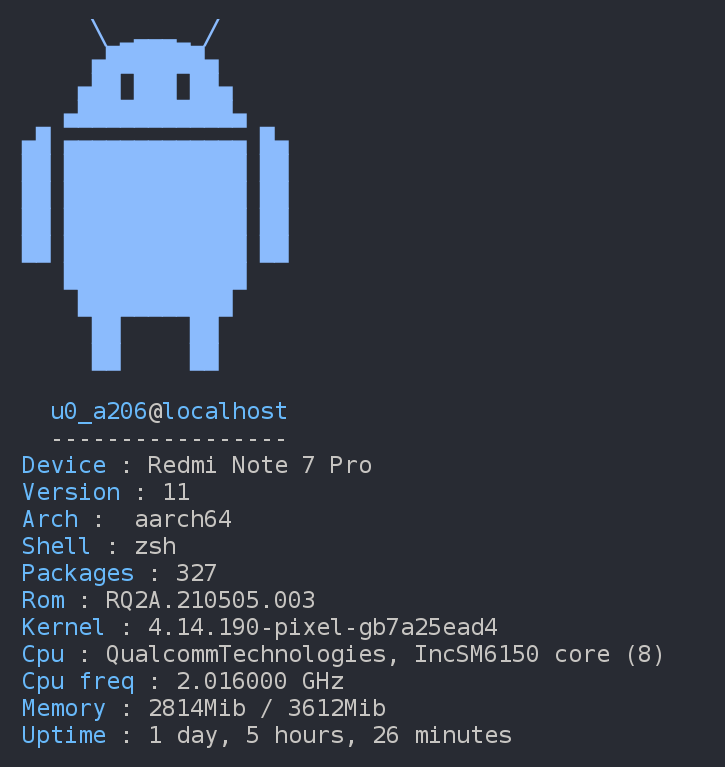
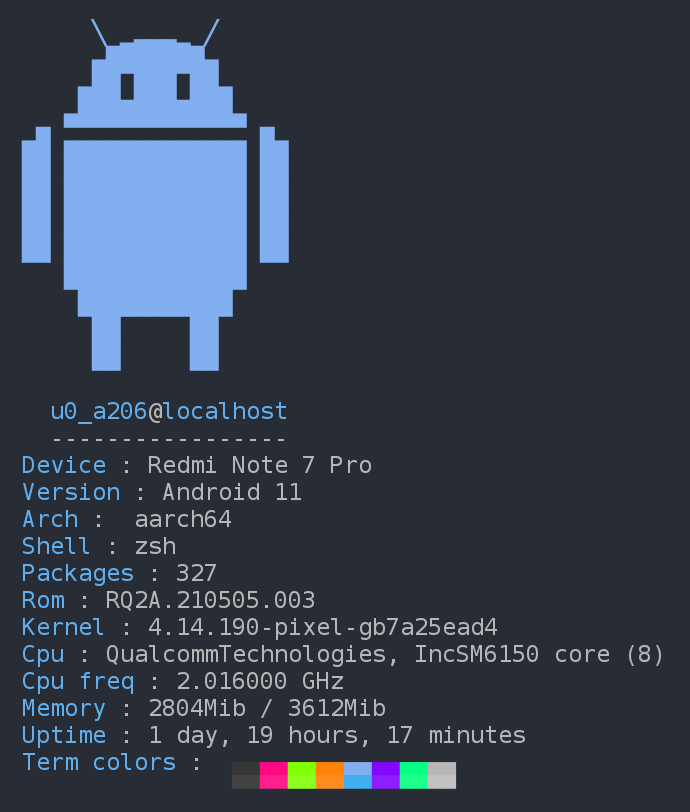
Update commit

diff --git a/androfetch.c b/androfetch.c
@@ -78,6 +78,27 @@ int main(void) {
 
   system("printf ' \033[38;2;97;175;239mMemory\033[0m : ' && free -m | awk NR==2 | awk '{printf $3}' && printf 'Mib / ' && free -m | awk NR==2 | awk '{printf $2}' && printf 'Mib'");
   system("echo && printf ' \033[38;2;97;175;239mUptime\033[0m : ' && uptime -p | cut -c 4-");
+
+int a=0, b=0;
+
+    printf(" \033[38;2;97;175;239mTerm colors\033[0m :  ");
+    for (; a <= 7;)
+    {
+        printf( "\033[3%dm▄▄", a);
+        a=a+1;
+        if (a==8)
+        {
+            printf("\n\t\t");
+           // break;
+            for (; b<=7;)
+            {
+                printf( "\033[9%dm▀▀", b);
+                b=b+1;
+            }
+            printf("\n");
+            break;
+        }
+    }
 #else
 
     printf("Sorry, the system are not listed above.\n");

diff --git a/README.md b/README.md
@@ -4,3 +4,9 @@
 <h1 align="center">
   <img src="/images/preview.png" alt="Preview" />
 </h1>
+
+**Install for Termux**
+
+```
+make install
+```
